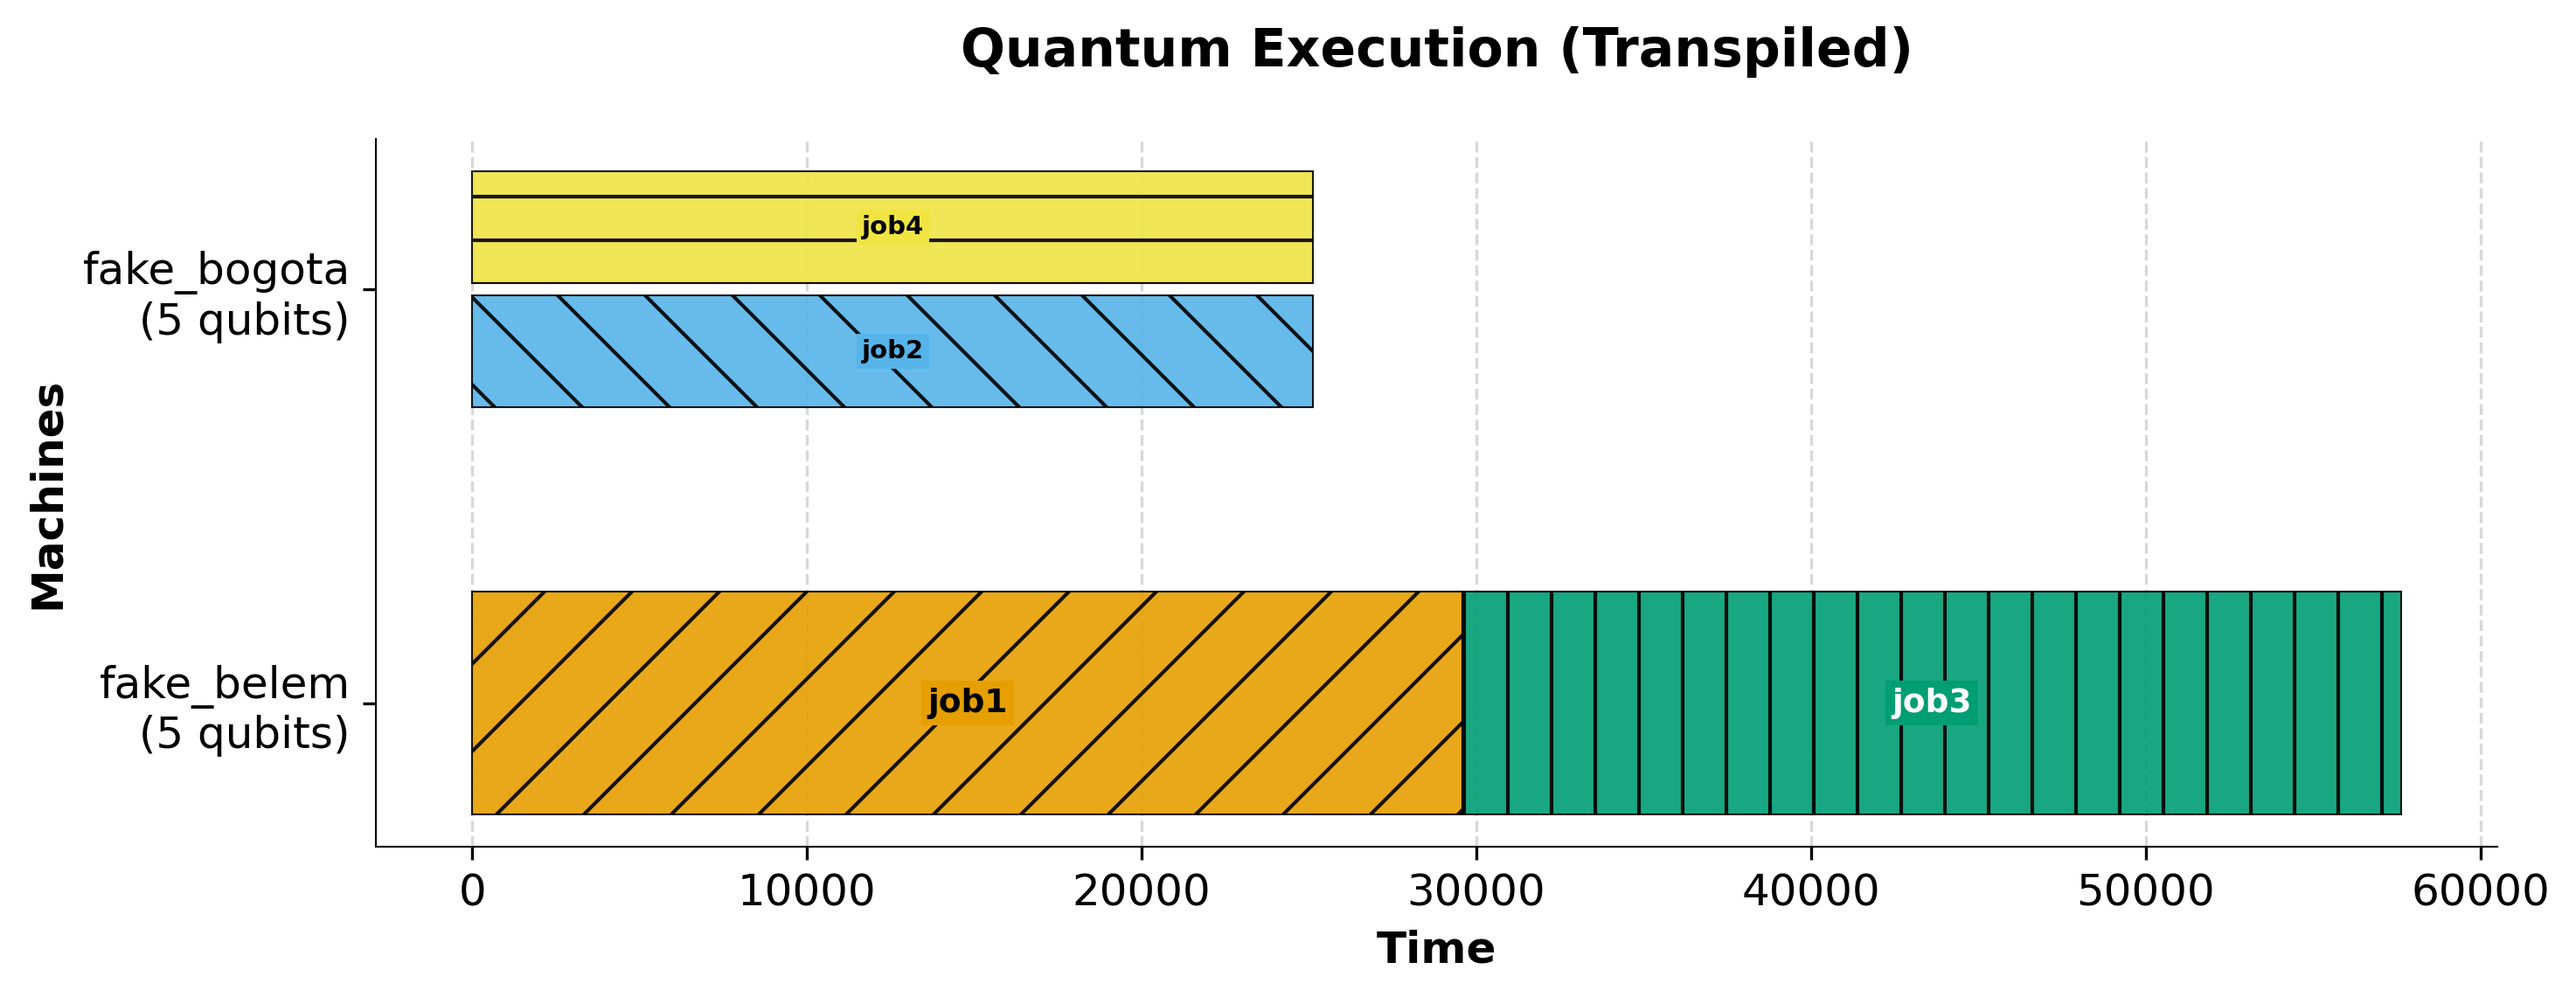
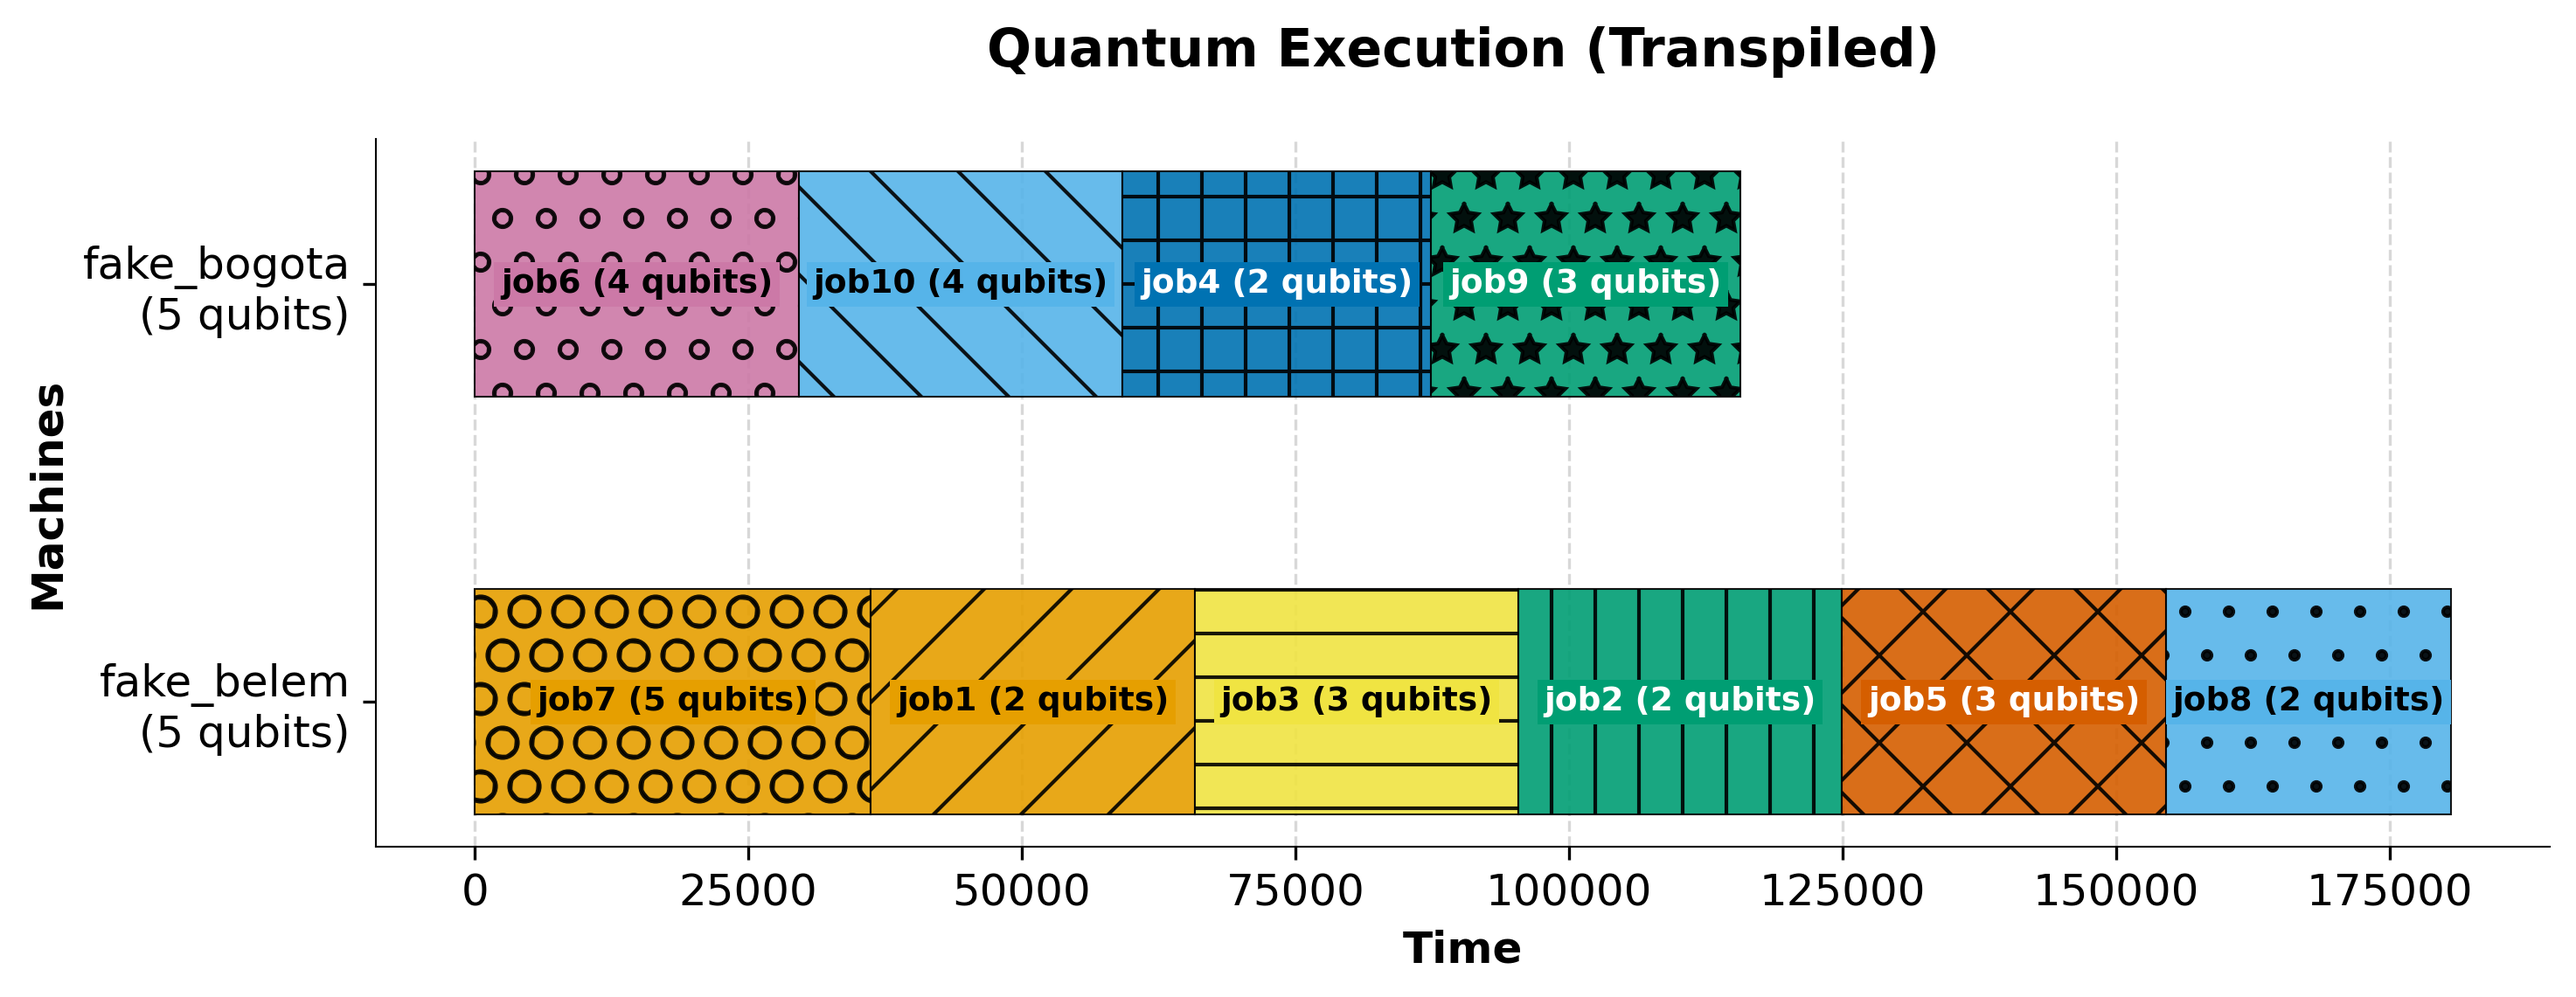
submit ganttchart code

diff --git a/algorithm/heuristic/FFD.py b/algorithm/heuristic/FFD.py
@@ -44,29 +44,35 @@ class FFD:
         job_info: SchedulerJobInfo,
         machine_states: list[Dict[str, Any]],
     ) -> Dict[str, Any] | None:
+        """Find the machine that can host the job soonest.
+
+        Scans every machine with enough qubits, computes its earliest
+        feasible start time via `_earliest_start_for_machine`, and picks the
+        machine with the smallest one. Ties (e.g. multiple idle machines)
+        are broken by machine order, preserving first-fit semantics. This
+        avoids sticking a job on the first machine in order just because it
+        *eventually* has room, while another machine could start it sooner.
+        """
         required_qubits = FFD._job_qubits(job_info)
         arrival_time = FFD._job_arrival_time(job_info)
 
-        # First try to fit at arrival_time on the first machine in order
-        for machine_state in machine_states:
-            if FFD._machine_qubits(machine_state['machine']) < required_qubits:
-                continue
-            duration = float(max(1.0, getattr(job_info.job_information.circuit, 'depth', lambda: 1)()))
-            start = arrival_time
-            end = start + duration
-            if FFD._capacity_available(machine_state, start, end, required_qubits):
-                return machine_state
+        best_machine_state = None
+        best_start = None
 
-        # Otherwise, find earliest slot per machine (first-fit by machine order)
         for machine_state in machine_states:
             if FFD._machine_qubits(machine_state['machine']) < required_qubits:
                 continue
             earliest = FFD._earliest_start_for_machine(machine_state, arrival_time, job_info, required_qubits)
-            if earliest is not None:
-                machine_state.setdefault('_candidate_start', earliest)
-                return machine_state
+            if earliest is None:
+                continue
+            if best_start is None or earliest < best_start:
+                best_start = earliest
+                best_machine_state = machine_state
 
-        return None
+        if best_machine_state is not None:
+            best_machine_state['_candidate_start'] = best_start
+
+        return best_machine_state
 
     @staticmethod
     def _capacity_available(machine_state: Dict[str, Any], start: float, end: float, required_qubits: int) -> bool:
@@ -162,7 +168,7 @@ class FFD:
                 # otherwise, try at arrival or the machine's latest end
                 start_time = arrival_time
 
-            execution_time = float(max(1.0, float(estimated_schedule(circuit, shots=shots))))
+            execution_time = shots * float(max(1.0, float(estimated_schedule(circuit, shots=shots))))
             end_time = start_time + execution_time
 
             # Record allocation on machine

diff --git a/flow/input/phase_input.py b/flow/input/phase_input.py
@@ -34,7 +34,7 @@ class ConcreteInputPhase():
             Dictionary of JobInfo objects with job name as key.
         """
         # Prepare benchmark jobs: simple GHZ circuits of fixed width
-        jobs: Dict[str, Tuple[int, int]] = {"job1": (2, 1024), "job2": (2, 1024), "job3": (3, 1024), "job4": (2, 1024)}
+        jobs: Dict[str, Tuple[int, int]] = {"job1": (2, 1024), "job2": (2, 1024), "job3": (3, 1024), "job4": (2, 1024), "job5": (3, 1024), "job6": (4, 1024), "job7": (5, 1024), "job8": (2, 1024), "job9": (3, 1024), "job10": (4, 1024)}
 
         # Generate circuits and job infos
         origin_job_info: Dict[str, JobInfo] = {}
@@ -46,7 +46,11 @@ class ConcreteInputPhase():
                 arrival_time=0,  # For simplicity, all jobs arrive at time 0
                 priority=1,  # For simplicity, all jobs have the same priority
             )
-        print(f"Created {len(origin_job_info)} circuit jobs: {list(origin_job_info.keys())}")
+        # print the created jobs name: qubits
+        print("Created circuit jobs: ", end="")
+        for job_name, job_info in origin_job_info.items():
+            print(f"[{job_name}: {job_info.circuit.num_qubits} qubits] ", end="")
+        print()  # Xuống dòng sau khi in xong toàn bộ vòng lặp (nếu cần)
 
         # capture
         capture_result_schedule.numCircuits = len(origin_job_info)
@@ -65,8 +69,11 @@ class ConcreteInputPhase():
         machines[sim_backend.sim_machine5qubits.FakeBelemV2().name] = sim_backend.sim_machine5qubits.FakeBelemV2()
         machines[sim_backend.sim_machine5qubits.FakeBogotaV2().name] = sim_backend.sim_machine5qubits.FakeBogotaV2()
         
-        # print
-        print(f"Available quantum machines: {list(machines.keys())}")
+        # print the created machines name: qubits
+        print("Created quantum machines: ", end="")
+        for machine_name, machine_backend in machines.items():
+            print(f"[{machine_name}: {machine_backend.num_qubits} qubits] ", end="")
+        print()  # Xuống dòng sau khi in xong toàn bộ vòng lặp (nếu cần)
         
         # capture
         capture_result_schedule.nameMachines = list(machines.keys())

diff --git a/flow/execution/post_execution_analysis.py b/flow/execution/post_execution_analysis.py
@@ -112,7 +112,7 @@ class PostExecution:
                     updated_job_info[job_info.job_name] = execution_result
         return updated_job_info
 
-    def draw_gantt_chart(
+    def _draw_gantt_chart(
         self,
         execution_results: dict[str, ExecutionResult],
         machines: Dict[str, Any] | None = None,
@@ -130,13 +130,15 @@ class PostExecution:
                 for machine_name in sorted(machine_names)
             }
 
-        gantt_input = {}
-        for job_name, result in execution_results.items():
-            gantt_input[job_name] = SimpleNamespace(
+        gantt_input = {
+            job_name: SimpleNamespace(
                 assigned_machine=result.assigned_machine,
                 scheduled_start_time=result.start_time,
                 scheduled_end_time=result.end_time,
+                num_qubits=getattr(getattr(result.job_info, "circuit", None), "num_qubits", None),
             )
+            for job_name, result in execution_results.items()
+        }
 
         chart = GanttChart(
             title="Quantum Execution (Transpiled)",
@@ -209,6 +211,7 @@ class PostExecution:
         print("PostExecution: Analyzing execution results")
         result = self.update_job_info_with_results(scheduler_job_simulation)
         machine_ultilization = self.update_machine_info_with_results(machines, scheduler_job_simulation)
-        self.draw_gantt_chart(result, machines, output_path="execution_gantt_chart.png")
+        print(result)
+        self._draw_gantt_chart(result, machines, output_path="execution_gantt_chart.png")
 
         return result

diff --git a/flow/schedule/post_schedule.py b/flow/schedule/post_schedule.py
@@ -1,11 +1,29 @@
 from collections import defaultdict
+from types import SimpleNamespace
 from typing import Any, Dict
 
 from component.dataclass.job_info import SchedulerJobInfo
+from component.visualize.gantt_chart import GanttChart
 
 class PostSchedulePhase():
-    def execute(self, scheduler_job: Dict[str, SchedulerJobInfo], machines: Dict[str, Any]) -> Dict[str, Any]:
+    def execute(
+        self,
+        scheduler_job: Dict[str, SchedulerJobInfo],
+        machines: Dict[str, Any],
+        output_path: str = "schedule_gantt_chart.png",
+    ) -> Dict[str, Any]:
         print("PostSchedule: Grouping jobs by machine and execution intervals...")
+        gantt_input = {
+            job_name: SimpleNamespace(
+                assigned_machine=job.assigned_machine,
+                scheduled_start_time=job.scheduled_start_time,
+                scheduled_end_time=job.scheduled_end_time,
+                num_qubits=getattr(getattr(job.job_information, "circuit", None), "num_qubits", None),
+            )
+            for job_name, job in scheduler_job.items()
+        }
+        GanttChart().display(gantt_input, machines, output_path=output_path)
+
         machine_map = defaultdict(list)
         
         for job_key, job_info in scheduler_job.items():

diff --git a/component/visualize/gantt_chart.py b/component/visualize/gantt_chart.py
@@ -54,11 +54,15 @@ class GanttChart:
             duration = float(end) - float(start)
             if duration <= 0: continue
 
+            num_qubits = getattr(info, "num_qubits", None)
+            label = f"{name} ({num_qubits} qubits)" if num_qubits is not None else name
+
             drawables.append({
                 'y': y_map[assigned],
                 'start': float(start),
                 'duration': duration,
                 'name': name,
+                'label': label,
                 'color': c_map.get(name, "#999999"),
                 'hatch': h_map.get(name, "")
             })
@@ -120,7 +124,7 @@ class GanttChart:
                 fontsize = 9 if num_lanes == 1 else max(6, 9 - num_lanes)
                 
                 ax.text(
-                    job['start'] + job['duration'] / 2.0, center_y, job['name'],
+                    job['start'] + job['duration'] / 2.0, center_y, job['label'],
                     va="center", ha="center", fontsize=fontsize, fontweight='bold', color=text_color,
                     bbox=dict(boxstyle="square,pad=0.2", fc=job['color'], ec="none") if num_lanes < 3 else None
                 )

diff --git a/tests/algorithm/heuristic/test_ffd.py b/tests/algorithm/heuristic/test_ffd.py
@@ -55,6 +55,24 @@ def test_execute_picks_first_fitting_machine_in_dict_insertion_order():
     assert job.assigned_machine == "m1"
 
 
+def test_execute_prefers_idle_machine_over_busy_first_machine():
+    # m1 (first in dict order) is kept busy until t=100 by a large blocking job.
+    # m2 is idle the whole time. A later 2-qubit job should land on m2 at its
+    # own arrival time, not queue behind m1's backlog.
+    blocker = make_scheduler_job("blocker", num_qubits=5, depth_value=100, arrival_time=0.0)
+    job = make_scheduler_job("job", num_qubits=2, depth_value=1, arrival_time=1.0)
+
+    FFD.execute(
+        {"blocker": blocker, "job": job},
+        {"m1": make_machine(5), "m2": make_machine(5)},
+    )
+
+    assert blocker.assigned_machine == "m1"
+    assert job.assigned_machine == "m2"
+    assert job.scheduled_start_time == 1.0
+    assert job.scheduled_end_time == 2.0
+
+
 def test_execute_co_schedules_two_jobs_on_same_machine_when_capacity_allows():
     j1 = make_scheduler_job("j1", num_qubits=2, depth_value=2, arrival_time=0.0)
     j2 = make_scheduler_job("j2", num_qubits=2, depth_value=2, arrival_time=0.0)

diff --git a/tests/flow/execution/test_post_execution_analysis.py b/tests/flow/execution/test_post_execution_analysis.py
@@ -123,7 +123,7 @@ def test_draw_gantt_chart_writes_png(tmp_path):
         ),
     }
 
-    PostExecution().draw_gantt_chart(execution_results, output_path=str(output_path))
+    PostExecution()._draw_gantt_chart(execution_results, output_path=str(output_path))
 
     assert output_path.exists()
     assert output_path.stat().st_size > 0
